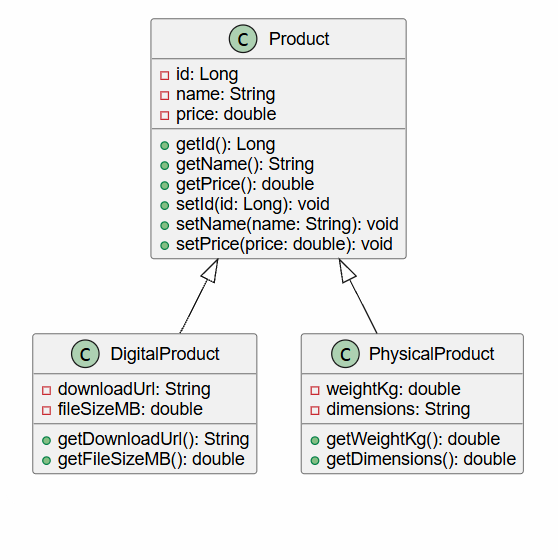
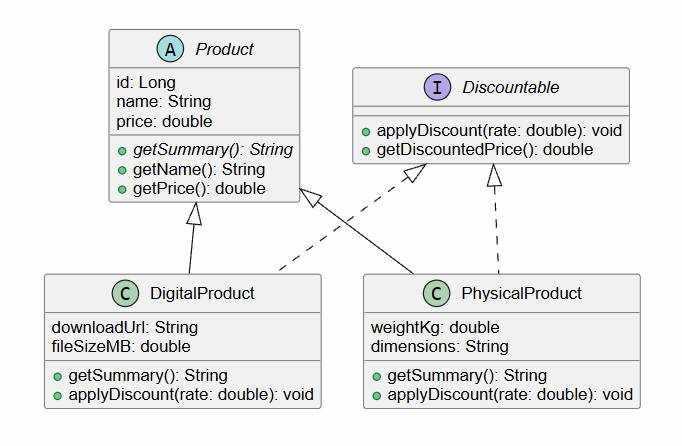
Tutorial 5: polymorphism, getSummary override and Discountable interface

diff --git a/src/main/java/uk/ac/westminster/product_api/ProductController.java b/src/main/java/uk/ac/westminster/product_api/ProductController.java
@@ -1,37 +1,46 @@
 package uk.ac.westminster.product_api;
 
-import org.springframework.beans.factory.annotation.Autowired;
 import org.springframework.web.bind.annotation.*;
 import java.util.List;
+import java.util.Optional;
 
 @RestController
+@RequestMapping("/products")
 public class ProductController {
 
-    @Autowired
-    private ProductService productService;
+    private final ProductService productService;
 
-    @GetMapping("/products")
+    public ProductController(ProductService productService) {
+        this.productService = productService;
+    }
+
+    @GetMapping
     public List<Product> getAllProducts() {
         return productService.getAllProducts();
     }
 
-    @GetMapping("/products/{id}")
-    public Product getProductById(@PathVariable Long id) {
-        return productService.getProductById(id).orElse(null);
-    }
-
-    @PostMapping("/products")
-    public Product addProduct(@RequestBody Product product) {
+    @PostMapping
+    public Product addProduct(@RequestBody DigitalProduct product) {
+        // Temporary fix: Abstract Product cannot be instantiated directly via JSON request[cite: 23]
         return productService.addProduct(product);
     }
 
-    @DeleteMapping("/products/{id}")
+    @GetMapping("/{id}")
+    public Optional<Product> getProductById(@PathVariable Long id) {
+        return productService.getProductById(id);
+    }
+
+    @DeleteMapping("/{id}")
     public void deleteProduct(@PathVariable Long id) {
         productService.deleteProduct(id);
     }
 
-    @GetMapping("/products/search")
-    public List<Product> search(@RequestParam String name) {
+    @GetMapping("/search")
+    public List<Product> searchProducts(@RequestParam String name) {
         return productService.findByName(name);
+    }
+    @GetMapping("/products/summaries")
+    public List<String> getSummaries() {
+        return productService.getAllSummaries();
     }
 }

diff --git a/src/main/java/uk/ac/westminster/product_api/PhysicalProduct.java b/src/main/java/uk/ac/westminster/product_api/PhysicalProduct.java
@@ -1,21 +1,36 @@
 package uk.ac.westminster.product_api;
 
-public class PhysicalProduct extends Product {
+public class PhysicalProduct extends Product implements Discountable {
     private double weightKg;
     private String dimensions;
+    private double discountedPrice;
 
-    // No-arg constructor required for Jackson JSON deserialization
     public PhysicalProduct() {}
 
-    // Full parameterized constructor
     public PhysicalProduct(Long id, String name, double price, double weightKg, String dimensions) {
-        // super(...) MUST be the very first statement
         super(id, name, price);
         this.weightKg = weightKg;
         this.dimensions = dimensions;
+        this.discountedPrice = price; // Initial price before discount
     }
 
-    // Getters for the new fields
+    @Override
+    public String getSummary() {
+        return "Physical: " + getName() + " | Weight: " + weightKg + "kg";
+    }
+
+    @Override
+    public void applyDiscount(double rate) {
+        // Cap the rate at 20% because shipping is never discounted
+        double cappedRate = Math.min(rate, 0.20);
+        this.discountedPrice = getPrice() * (1 - cappedRate);
+    }
+
+    @Override
+    public double getDiscountedPrice() {
+        return discountedPrice;
+    }
+
     public double getWeightKg() {
         return weightKg;
     }

diff --git a/src/main/java/uk/ac/westminster/product_api/DigitalProduct.java b/src/main/java/uk/ac/westminster/product_api/DigitalProduct.java
@@ -1,21 +1,35 @@
 package uk.ac.westminster.product_api;
 
-public class DigitalProduct extends Product {
+public class DigitalProduct extends Product implements Discountable {
     private String downloadUrl;
     private double fileSizeMB;
+    private double discountedPrice;
 
-    // No-arg constructor required for Jackson JSON deserialization
     public DigitalProduct() {}
 
-    // Full parameterized constructor
     public DigitalProduct(Long id, String name, double price, String downloadUrl, double fileSizeMB) {
-        // super(...) MUST be the very first statement
         super(id, name, price);
         this.downloadUrl = downloadUrl;
         this.fileSizeMB = fileSizeMB;
+        this.discountedPrice = price; // Initial price before discount
     }
 
-    // Getters for the new fields
+    @Override
+    public String getSummary() {
+        return "Digital: " + getName() + " | Download: " + downloadUrl;
+    }
+
+    @Override
+    public void applyDiscount(double rate) {
+        // Nothing is shipped, so the full rate applies
+        this.discountedPrice = getPrice() * (1 - rate);
+    }
+
+    @Override
+    public double getDiscountedPrice() {
+        return discountedPrice;
+    }
+
     public String getDownloadUrl() {
         return downloadUrl;
     }

diff --git a/src/main/java/uk/ac/westminster/product_api/Product.java b/src/main/java/uk/ac/westminster/product_api/Product.java
@@ -1,40 +1,39 @@
 package uk.ac.westminster.product_api;
 
-public class Product {
+public abstract class Product {
     private Long id;
     private String name;
     private double price;
 
-    // No-arg constructor required for deserialization
     public Product() {}
 
-    // Parameterized constructor
     public Product(Long id, String name, double price) {
         this.id = id;
         this.name = name;
         this.price = price;
     }
 
-    // Getters
+    // Abstract method: no body, subclasses MUST implement this[cite: 23, 31]
+    public abstract String getSummary();
+
     public Long getId() {
         return id;
+    }
+
+    public void setId(Long id) {
+        this.id = id;
     }
 
     public String getName() {
         return name;
     }
 
-    public double getPrice() {
-        return price;
-    }
-
-    // Setters
-    public void setId(Long id) {
-        this.id = id;
-    }
-
     public void setName(String name) {
         this.name = name;
+    }
+
+    public double getPrice() {
+        return price;
     }
 
     public void setPrice(double price) {

diff --git a/src/main/java/uk/ac/westminster/product_api/ProductService.java b/src/main/java/uk/ac/westminster/product_api/ProductService.java
@@ -46,4 +46,11 @@ public class ProductService {
                 .filter(p -> p.getName().contains(name))
                 .toList();
     }
+    public List<String> getAllSummaries() {
+        List<String> summaries = new ArrayList<>();
+        for (Product p : products) {
+            summaries.add(p.getSummary());
+        }
+        return summaries;
+    }
 }

diff --git a/src/main/java/uk/ac/westminster/product_api/Discountable.java b/src/main/java/uk/ac/westminster/product_api/Discountable.java
@@ -1,0 +1,6 @@
+package uk.ac.westminster.product_api;
+
+public interface Discountable {
+    void applyDiscount(double rate);
+    double getDiscountedPrice();
+}
